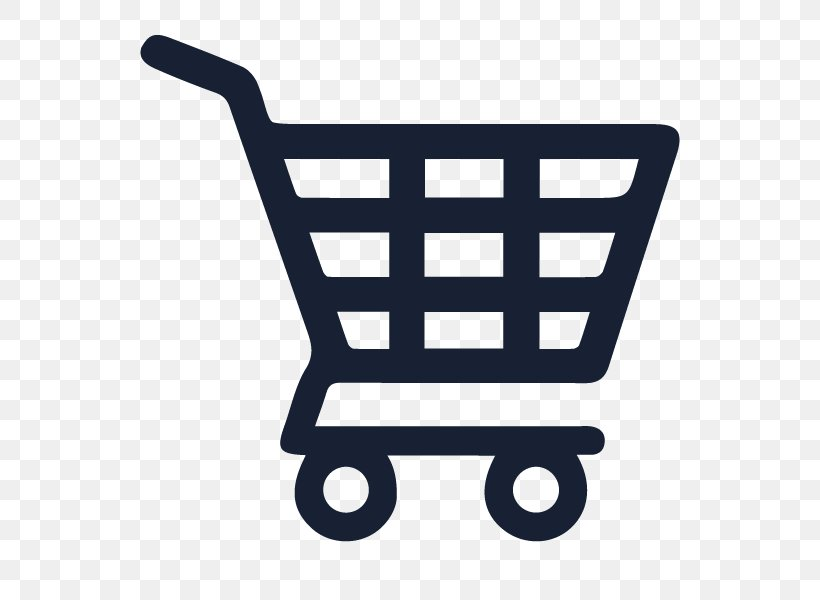
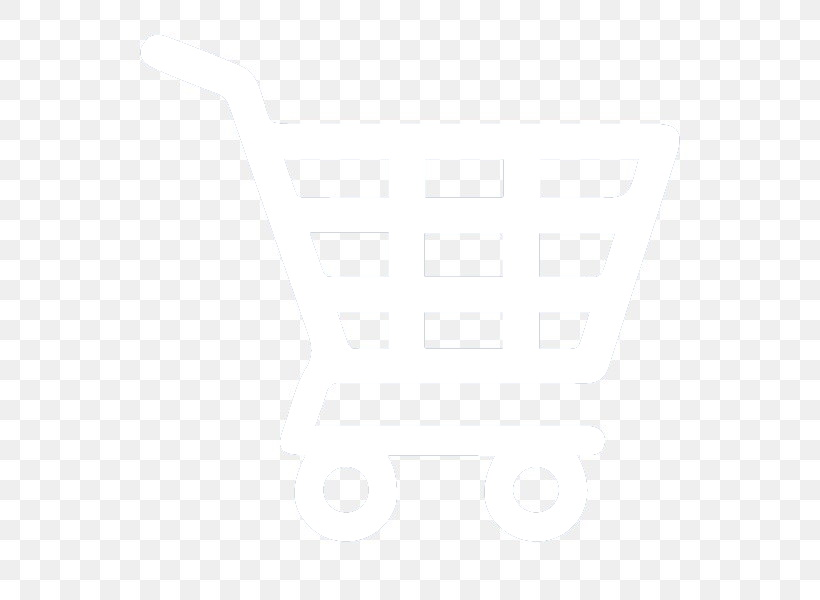
Fortsatte arbeta

Changed region(s): [[0.1524, 0.06, 0.8537, 0.9]]

diff --git a/index.html b/index.html
@@ -8,10 +8,11 @@
 </head>
 <body>
     <div class="container">
-        <a href="produkter.html" class="item"><p>Produkter</p></a>
-        <a href="kontakta.html" class="item"><p>Kontakta</p></a>
-        <a href="om_oss.html" class="item"><p>Om oss</p></a>
-        <a href="shopping.html" class="item"><img src="shoppingcart2.jpg" class="img_cart"></a>
+        <div class="item"><img src="Bilder/logo2.png" class="nav_img"></div>
+        <a href="produkter.html"  class="item_center"><p class="nav_text">Produkter</p></a>
+        <a href="kontakta.html"  class="item_center"><p class="nav_text">Kontakta</p></a>
+        <a href="om_oss.html"  class="item_center"><p class="nav_text">Om oss</p></a>
+        <a href="shopping.html" class="item"><img src="Bilder/shoppingcart3.png" class="nav_img"></a>
     </div>
     <div>
         <h1>Rubrik</h1>
@@ -22,7 +23,7 @@
         <div class="item2">oiuyt</div>
     </div>
     <footer>
-        Kontakta oss: sanna.isaksson@elev.ga.ntig.se
+        <p class="fotter_text">Kontakta oss: sanna.isaksson@elev.ga.ntig.se</p>
     </footer>
 </body>
 </html>

diff --git a/style.css b/style.css
@@ -1,3 +1,8 @@
+html{
+    position: relative;
+    min-height: 100%;
+}
+
 body{
     background-color: #D4D4D4;
     margin: 0;
@@ -11,14 +16,23 @@ body{
 }
 
 .item{
-    display: block;
-    flex-grow: 1;
+    width: 100px;
     height: 80px;
-    display: table;
     text-align: center;
+    
 }
 
-.item + .item{
+.item_center{
+    flex-grow: 1;
+    text-align: center;
+    line-height: 40px;
+}
+
+.item_center + .item_center{
+    margin-left: 2%;
+}
+
+.item_center + .item{
     margin-left: 2%;
 }
 
@@ -30,14 +44,13 @@ a{
     text-decoration: none;
 }
 
-p{
-    display: table-cell;
-    vertical-align: middle;
+.nav_text{
     color: white
 }
 
-.img_cart{
+.nav_img{
     height: 50px;
+    margin-top: 12%;
 }
 
 h1{
@@ -57,6 +70,18 @@ h1{
 }
 
 footer{
-    color: #323232;
     text-align: center;
+    position: absolute;
+    left: 0;
+    bottom: 0;
+    height: 100px;
+    width: 100%;
+    overflow: hidden;
+    background-color: #464646;
 }
+
+.fotter_text{
+    color: white;
+    margin-top: 3%;
+}
+
